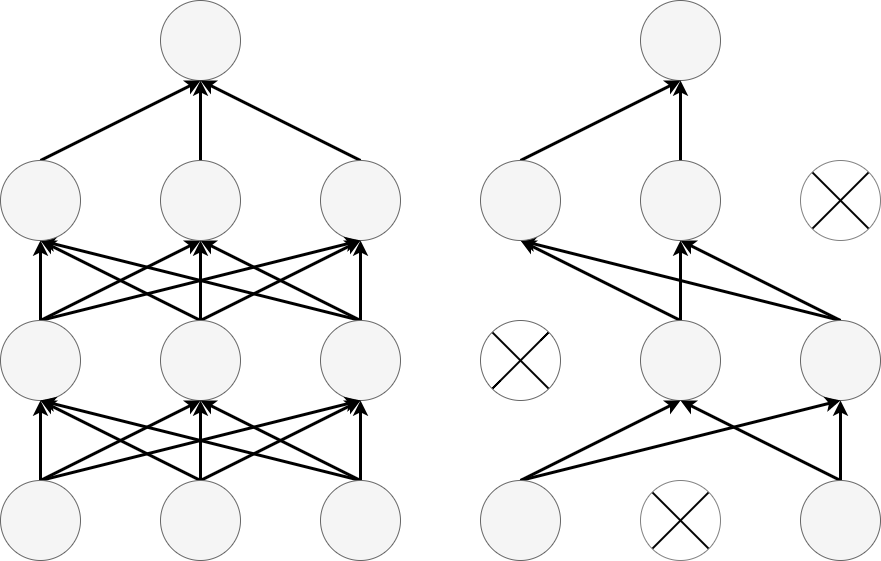
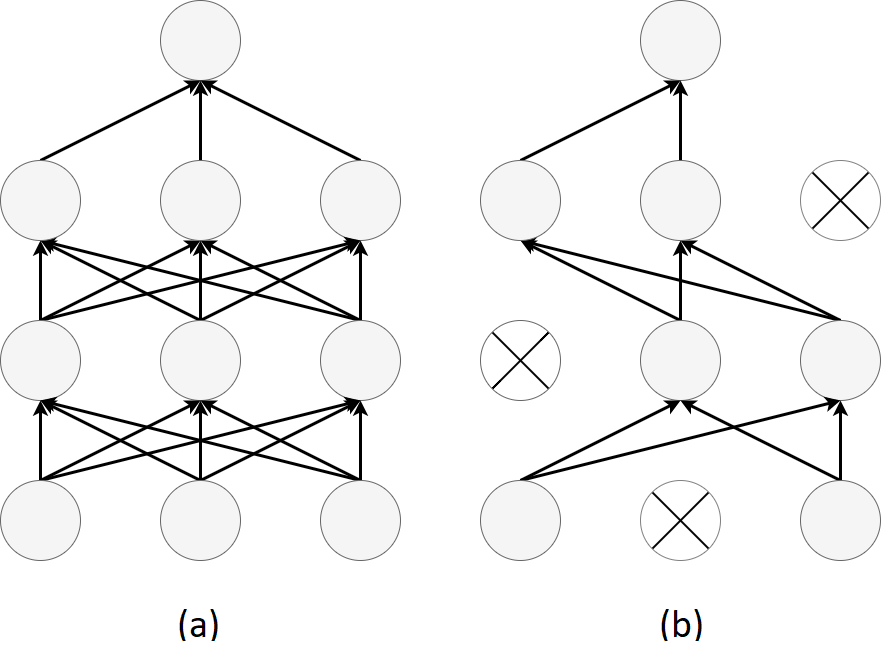
figs

diff --git a/Report/Background/DL.tex b/Report/Background/DL.tex
@@ -143,7 +143,7 @@ Dropout is a regulation technique used to reduce overfitting of the neural netwo
 \begin{figure} [H]
 \centering
 \includegraphics[width=0.5\textwidth]{figures/Dropout}
-\caption{Dropout effect: The figure on the left illustrates a fully connected network, without dropout, and the right shows a network where dropout is enabled on the first three layers. Edited \citep{Srivastava2014}.}
+\caption{Dropout effect: (a) illustrates a fully connected network without dropout, and (b) shows a network where dropout is enabled on the first three layers. Edited \citep{Srivastava2014}.}
 \label{fig:Dropout} 
 \end{figure}
 
